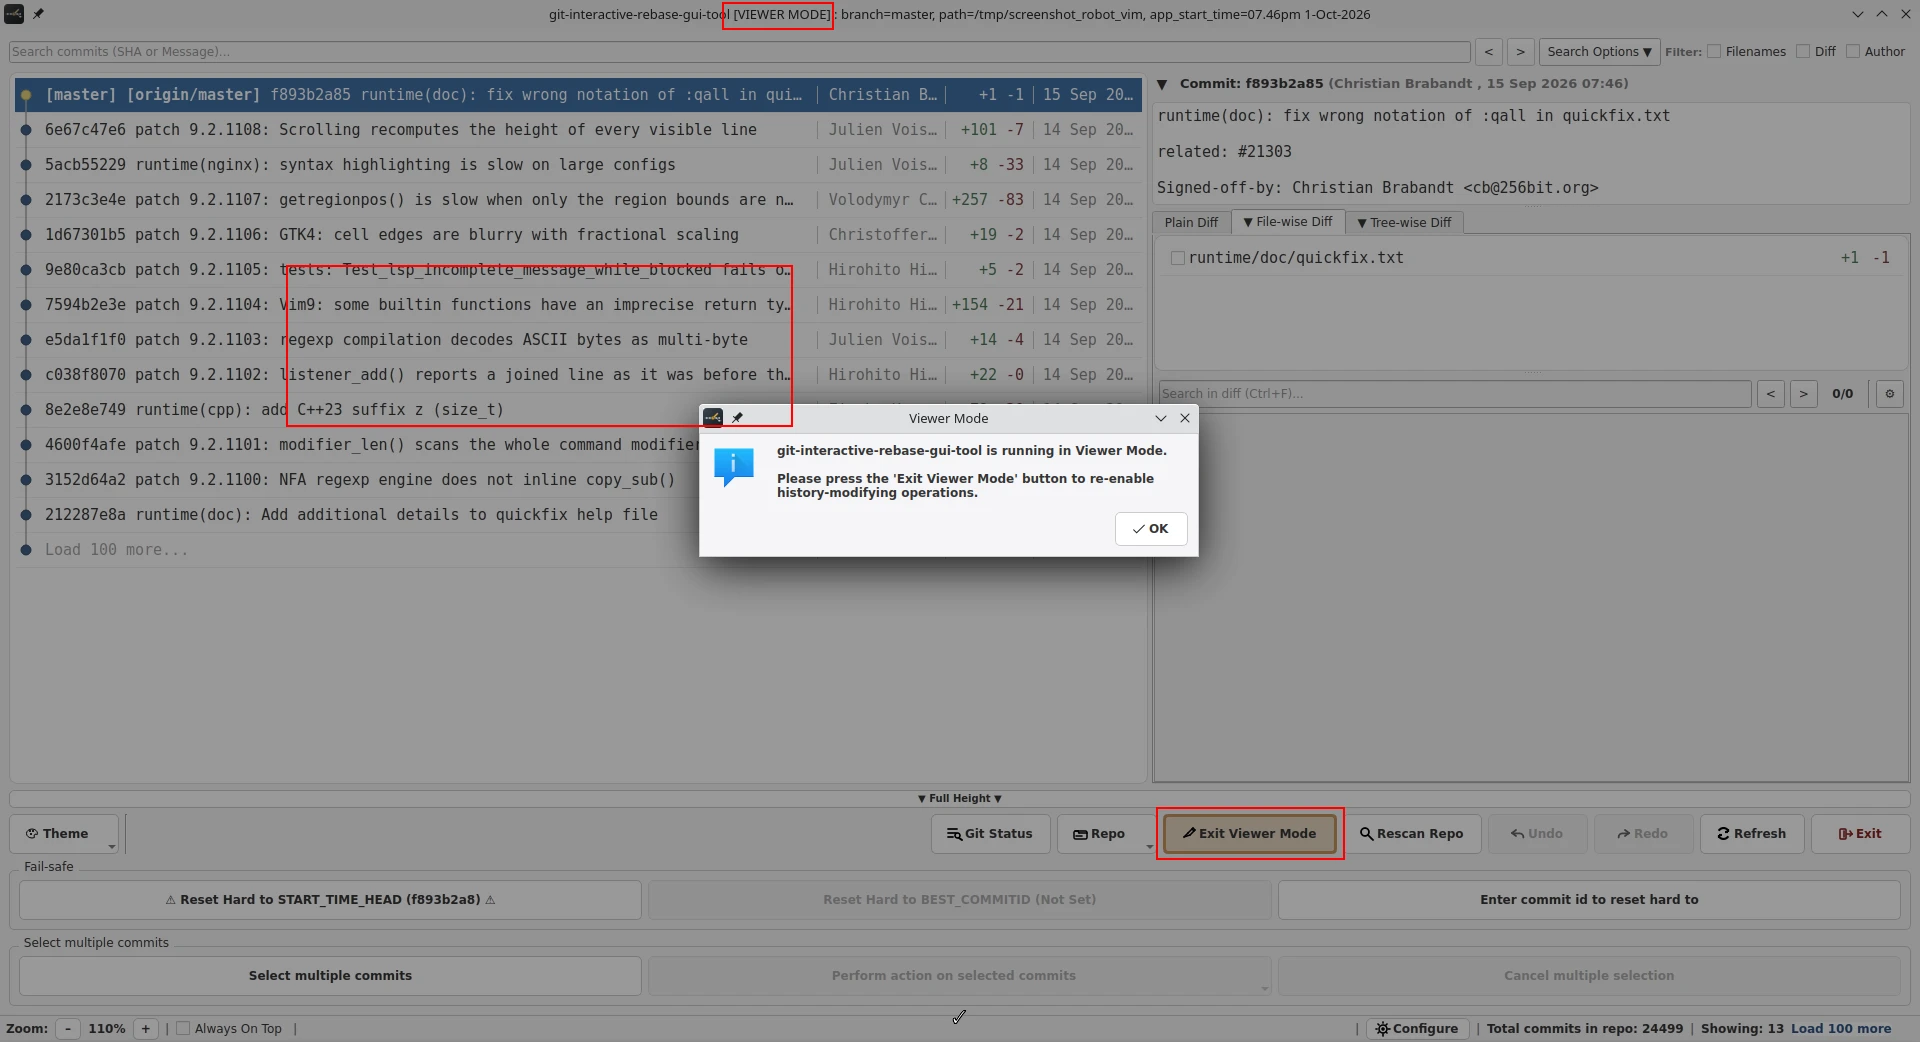
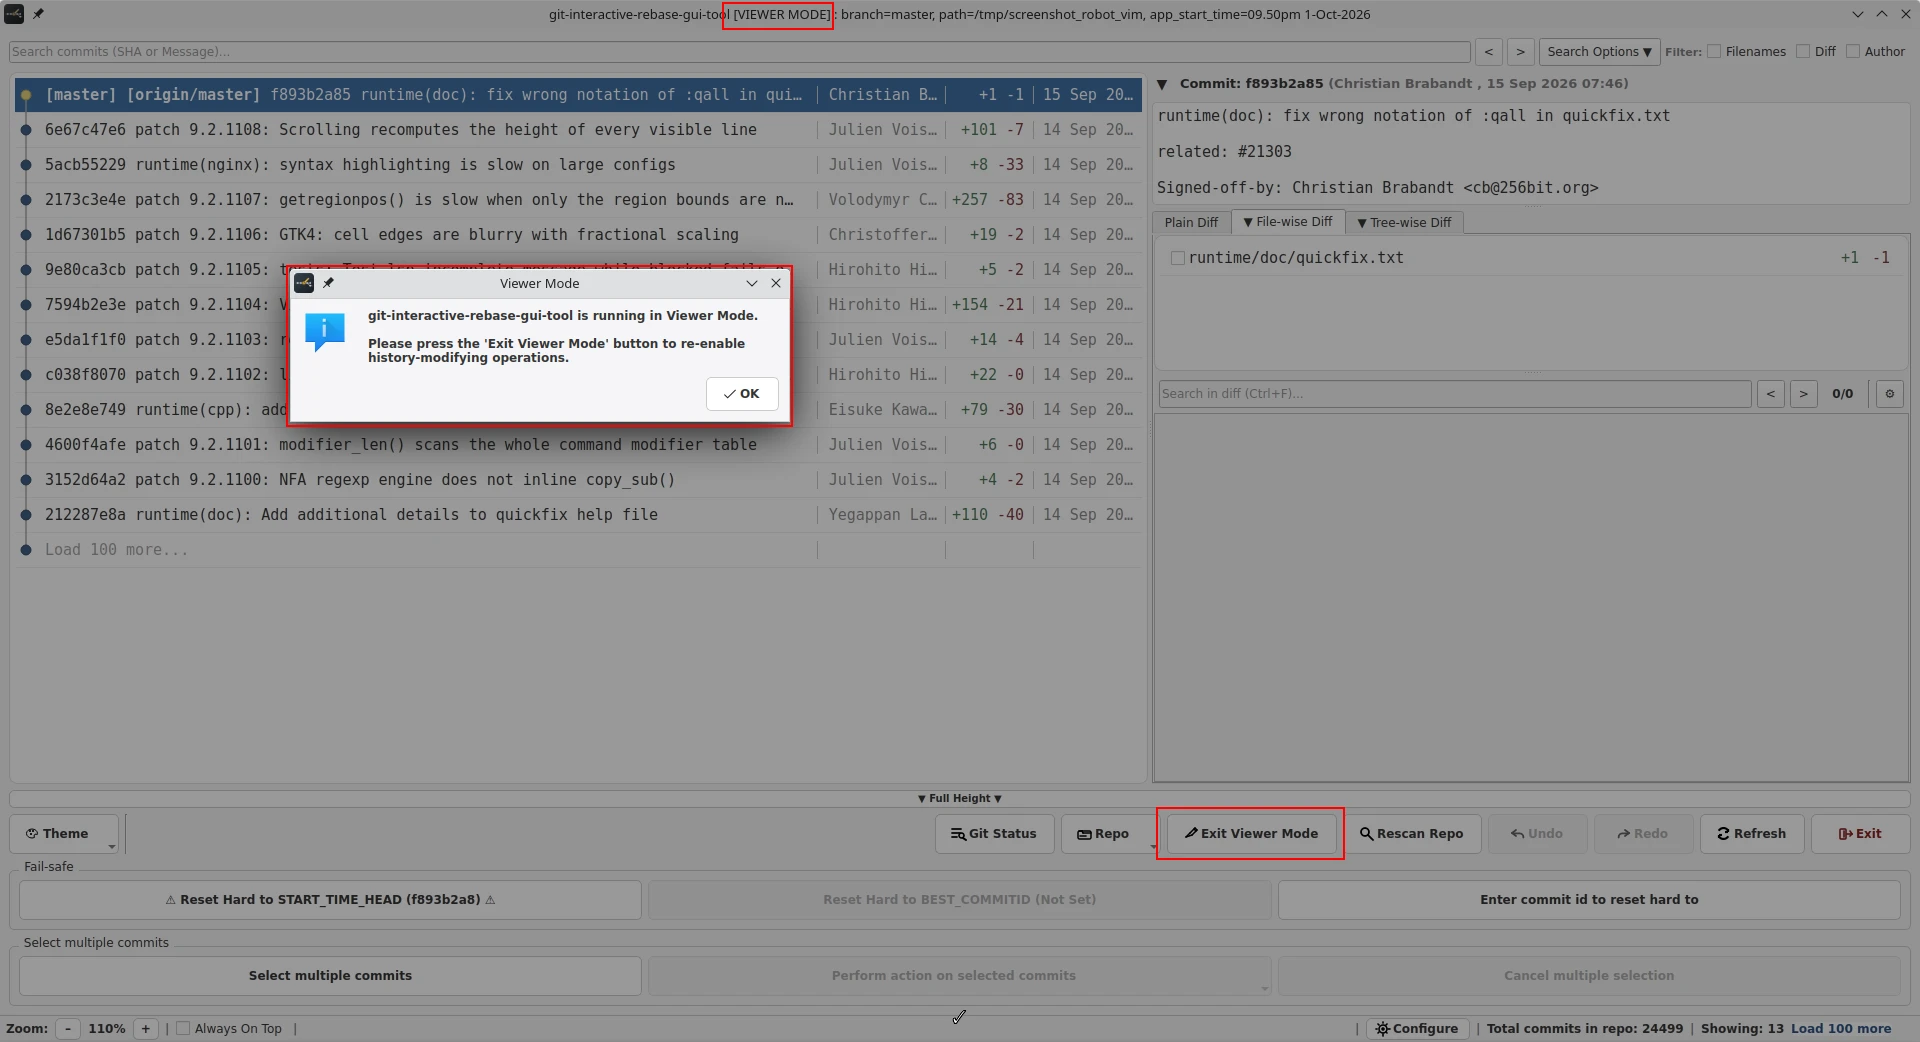
capture: viewer-mode.webp

Changed region(s): [[0.125, 0.2457, 0.6562, 0.5835], [0.5625, 0.7678, 0.7188, 0.8292], [0.5, 0.7985, 0.5312, 0.8292]]

diff --git a/find-merge-base.py b/find-merge-base.py
@@ -1,0 +1,144 @@
+"""Capture head-commits.webp - docs section 1 (Launch with HEAD~N).
+
+Run it through main.py; it prepares the clone, settings and publishing.
+"""
+from capture_lib import Tool, capture, repo, image_new, _sh_ok
+
+BOXES = [
+    {"rect": (349, 187, 669, 332)},
+    ]
+
+def main():
+    # 1. put the reference clone back to the pinned commit
+    repo.reset_to_base()
+
+    _sh_ok(["git", "-C", CLONE_DIR, "branch", "test", ""])
+    #git branch <new-branch-name> <commit-hash>
+
+
+    # 2. open the tool: HEAD~13 shows the 13 newest commits (the list excludes
+    #    the base commit itself, so the arg must be one further back)
+    tool = Tool(args=["HEAD~13"], log_name="mark-commits.log")
+    # everything below runs inside the finally - no matter which step fails,
+    # the tool gets closed and cannot poison the next run
+    try:
+        tool.wait_for_window()
+        tool.maximize()
+
+        tool.sleep(1)
+        tool.click(1288, 831)
+
+        tool.sleep(.1)
+        tool.press("Up")
+
+        tool.sleep(.1)
+        tool.press("Up")
+
+        tool.sleep(.1)
+        tool.press("Up")
+
+        tool.sleep(.1)
+        tool.press("Up")
+
+        tool.sleep(.1)
+        tool.press("Up")
+
+        tool.sleep(.1)
+        tool.press("Up")
+
+        tool.sleep(.1)
+        tool.press("Up")
+
+        tool.sleep(.1)
+        tool.press("Up")
+
+        tool.sleep(.1)
+        tool.press("Up")
+
+        tool.sleep(.1)
+        tool.press("Return")              # activate
+
+        tool.sleep(.5)
+        # 3. take the picture (this shot has no red boxes)
+        branch_config = capture(
+            tool,
+            description="launched with HEAD~13: 13 newest commits, HEAD row selected, Plain Diff",
+            size=(1920, 1042),
+        )
+        branch_config.crop(756, 362, 1144, 600)
+        tool.sleep(.5)
+
+        tool.sleep(.1)
+        tool.press("o")
+        tool.sleep(.1)
+        tool.press("r")
+        tool.sleep(.1)
+        tool.press("i")
+        tool.sleep(.1)
+        tool.press("g")
+        tool.sleep(.1)
+        tool.press("i")
+        tool.sleep(.1)
+        tool.press("n")
+        tool.sleep(.1)
+        tool.press("slash")
+        tool.sleep(.1)
+        tool.press("m")
+        tool.sleep(.1)
+        tool.press("a")
+        tool.sleep(.1)
+        tool.press("s")
+        tool.sleep(.1)
+        tool.press("t")
+        tool.sleep(.1)
+        tool.press("e")
+        tool.sleep(.1)
+        tool.press("r")
+
+        tool.sleep(.5)
+        tool.click(1076, 556)
+
+        tool.sleep(.5)
+        tool.click(359, 197, button=3)
+
+        tool.sleep(.5)
+        # 3. take the picture (this shot has no red boxes)
+        img = capture(
+            tool,
+            description="launched with HEAD~13: 13 newest commits, HEAD row selected, Plain Diff",
+            size=(1920, 1042),
+        )
+        tool.sleep(.5)
+        img.draw_box(BOXES)
+
+        x,y=branch_config.getsize()
+
+        img.resize(70, 70)
+        x2,y2 = img.getsize()
+
+        final = image_new(x+x2, y2)
+        final.add(0, (y2/2)-50, branch_config)
+        final.add(x,0, img)
+
+        final.add_text(56, 303, " branch details ", 20, border=1, fill="red")
+        final.add_text(646, 5, " browse branch window ", 20, border=1, fill="red")
+
+        final.save("browse-branch.png")
+        img.save("find-merge-base.png")
+
+
+
+        tool.sleep(.5)
+        tool.press("Escape")
+        tool.sleep(.5)
+        tool.press("Escape")
+        tool.sleep(.5)
+        tool.press("Escape")
+    finally:
+        tool.sleep(.5)
+        # 4. close the tool - even when a step above failed
+        tool.close()
+
+
+if __name__ == "__main__":
+    main()

diff --git a/main.py b/main.py
@@ -41,7 +41,6 @@ USER_CONFIG = Path.home() / ".config"
 
 SCENES = []
 '''
-SCENES += [("head-commits.py", ["head-commits.png"])]
 SCENES += [("rephrase-and-drop-commit.py", ["rephrase-and-drop-commit.png"])]
 SCENES += [("mark-commits.py", ["mark-commits.png"])]
 SCENES += [("tag-commit.py", ["tag-commit.png"])]
@@ -71,9 +70,12 @@ SCENES += [("drag-reorder.py", ["drag-reorder.png"])]
 SCENES += [("split-move-single-file-1.py", ["split-move-single-file-1.png", "split-move-single-file-2.png"])]
 SCENES += [("rescan-repository.py", ["rescan-repository.png", "commit-selectively.png"])]
 SCENES += [("refine-changes-in-file.py", ["refine-changes-in-file-1.png", "refine-changes-in-file-2.png"])]
-SCENES += [("browse-branch.py", ["browse-branch.png"])]
-'''
 SCENES += [("viewer-mode.py", ["viewer-mode.png"])]
+SCENES += [("find-merge-base.py", ["find-merge-base.png"])]
+'''
+
+#SCENES += [("browse-branch.py", ["browse-branch.png"])]
+SCENES += [("head-commits.py", ["head-commits.png"])]
 
 # SCENES += [("test.py", ["test.png"])]
 

diff --git a/viewer-mode.py b/viewer-mode.py
@@ -6,7 +6,7 @@ from capture_lib import Tool, capture, repo
 
 BOXES = [
     {"rect": (1156, 807, 1344, 859)},
-    {"rect": (286, 265, 792, 426)},
+    {"rect": (695, 400, 1205, 562)},
     {"rect": (722, 2, 833, 29)},
     ]
 
